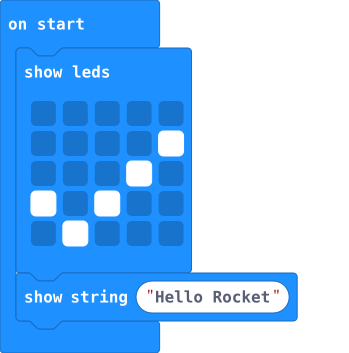
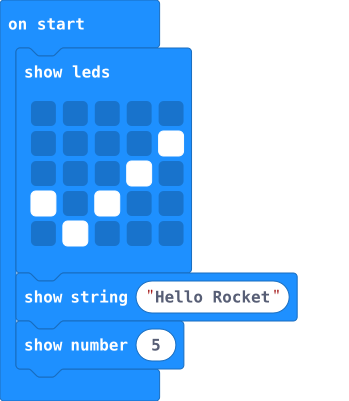
added showNum

Changed region(s): [[0.0287, 0.2493, 0.8596, 0.966], [0.0287, 0.0312, 0.5731, 0.2181]]

diff --git a/main.ts b/main.ts
@@ -6,4 +6,4 @@ basic.showLeds(`
     . # . . .
     `)
 basic.showString("Hello Rocket")
-basic.showNumber(7)
+basic.showNumber(5)
